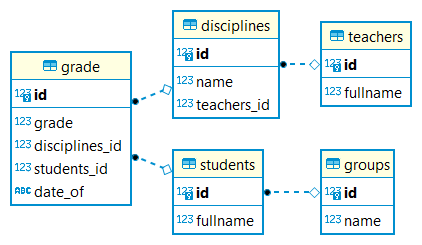
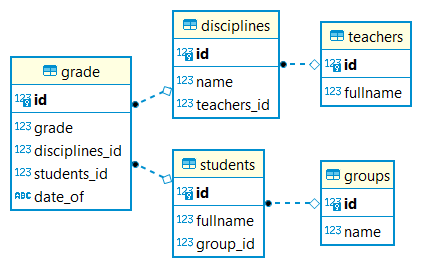
students tune

Changed region(s): [[0.0, 0.0286, 0.9858, 0.9714], [0.3081, 0.8, 0.3389, 0.8286]]

diff --git a/hw_06/seeds.py b/hw_06/seeds.py
@@ -50,15 +50,15 @@ fake: Faker = Faker("uk-UA")
 
 
 def seed_disciplines(cur: sqlite3.Cursor):
-    sql = 'INSERT INTO disciplines(name) VALUES (?);'
+    sql = 'INSERT INTO disciplines(name, teachers_id) VALUES (?,?);'
     try:
-        cur.executemany(sql, zip(disciplines,))
+        cur.executemany(sql, zip(disciplines, [ randint(1,TOTAL_TEACHERS)  for _ in range(TOTAL_TEACHERS)] ))
     except sqlite3.ProgrammingError as e:
         logger.error(e)
 
 
 def seed_groups(cur: sqlite3.Cursor):
-    sql = 'INSERT INTO [groups](name) VALUES (?);'
+    sql = 'INSERT INTO groups(name) VALUES (?);'
     try:
         cur.executemany(sql, zip(groups,))
     except sqlite3.ProgrammingError as e:
@@ -75,9 +75,17 @@ def seed_teacher(cur: sqlite3.Cursor):
 
 def seed_students(cur: sqlite3.Cursor):
     students = [fake.name().replace("пані","").replace("пан","") for _ in range(TOTAL_STUDENDS)]
-    sql = 'INSERT INTO students(fullname) VALUES (?);'
+    sql = 'INSERT INTO disciplines(name, teachers_id) VALUES (?,?);'
+
     try:
-        cur.executemany(sql, zip(students,))
+        cur.executemany(sql, zip(students, [ randint(1,len(groups))  for _ in groups] ))
+    except sqlite3.ProgrammingError as e:
+        logger.error(e)
+
+def seed_disciplines(cur: sqlite3.Cursor):
+    sql = 'INSERT INTO disciplines(name, teachers_id) VALUES (?,?);'
+    try:
+        cur.executemany(sql, zip(disciplines, [ randint(1,TOTAL_TEACHERS)  for _ in range(TOTAL_TEACHERS)] ))
     except sqlite3.ProgrammingError as e:
         logger.error(e)
 
